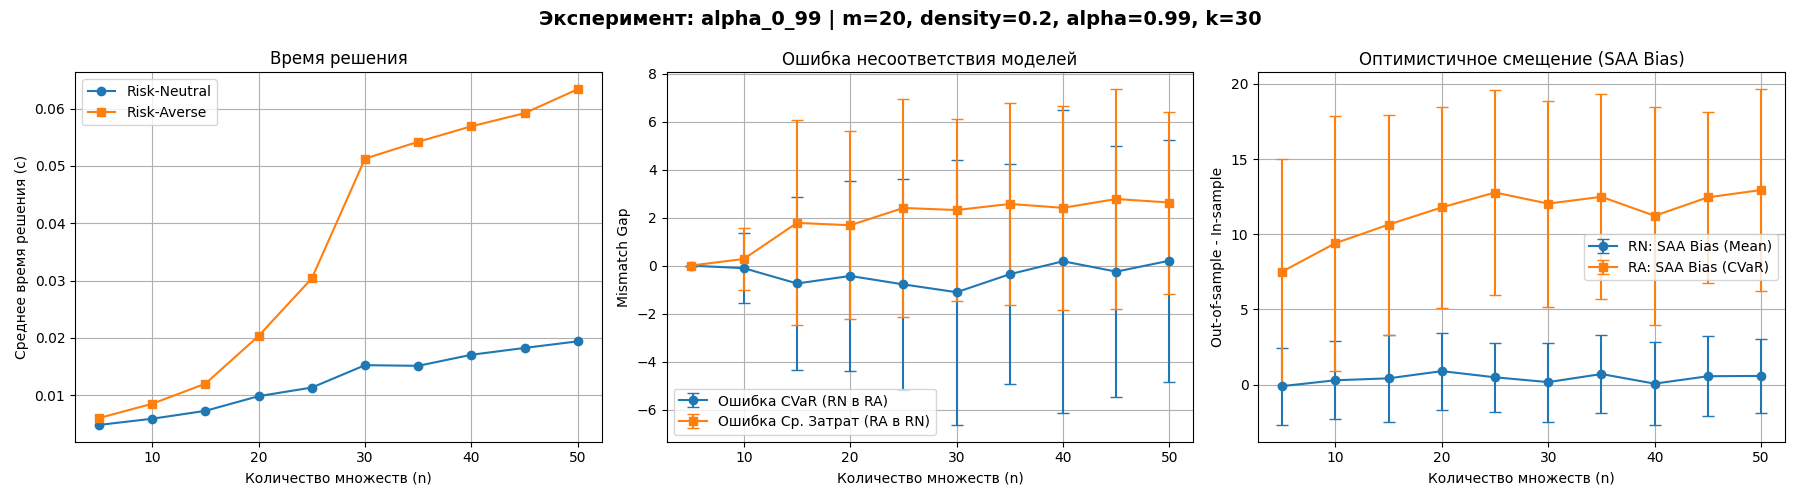
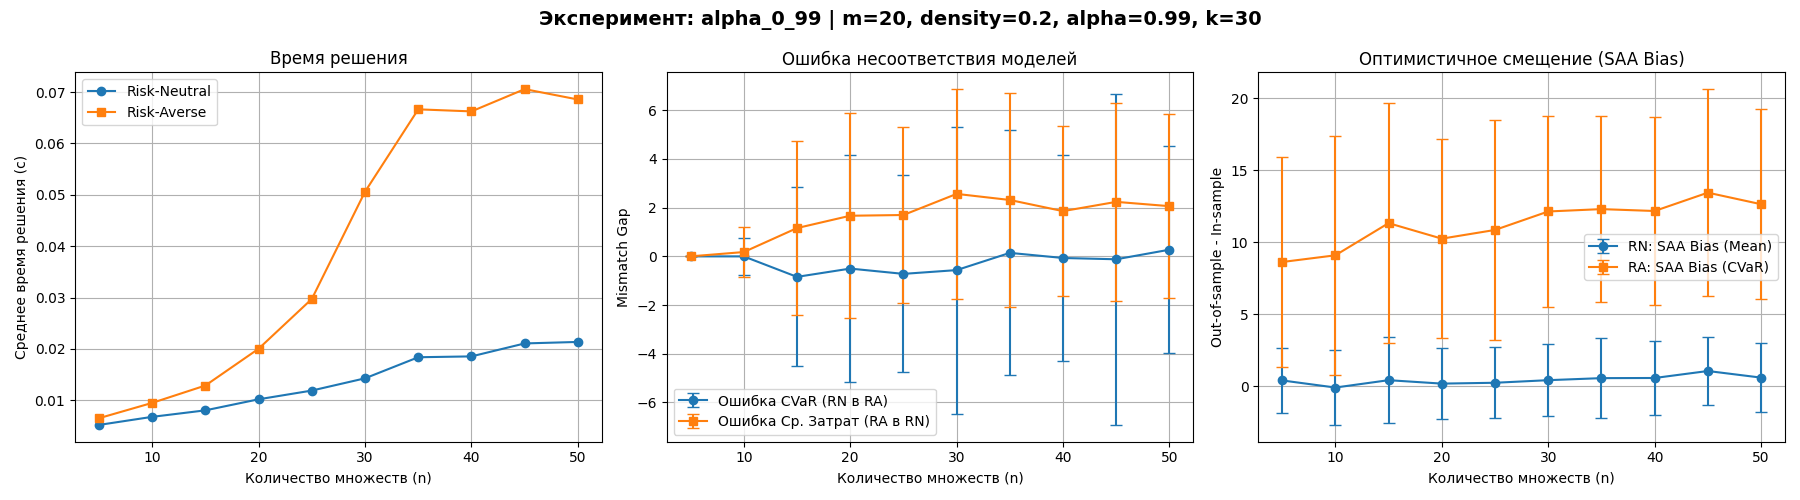
Fixes

diff --git a/experiments/stochastic_run.py b/experiments/stochastic_run.py
@@ -60,7 +60,7 @@ def draw_plots(exp_name: str, config: dict, results: dict):
 
     # выравниваем и сохраняем картинку
     plt.tight_layout()
-    plt.savefig(f"report/images/{exp_name}.png")
+    plt.savefig(f"report/stochastic_images/{exp_name}.png")
     plt.close()
 
 

diff --git a/report/tables/stochastic-table.md b/report/tables/stochastic-table.md
@@ -2,93 +2,103 @@
 
 | Эксперимент (Параметры) | n | Время RN (с) | Время RA (с) | Mismatch CVaR | Mismatch Mean | Bias RN | Bias RA |
 |---|---|---|---|---|---|---|---|
-| **base_case**<br>m=20, d=0.2, $\alpha$=0.9 | 5 | 0.0051 | 0.0062 | 0.0000 ± 0.00 | 0.0000 ± 0.00 | 0.0207 | 1.3152 |
-|  | 10 | 0.0062 | 0.0087 | -0.1004 ± 0.62 | 0.1888 ± 1.03 | -0.0934 | 0.6145 |
-|  | 15 | 0.0079 | 0.0134 | 0.1426 ± 1.32 | 0.4332 ± 1.48 | 0.5305 | 3.1931 |
-|  | 20 | 0.0102 | 0.0210 | 0.0605 ± 2.15 | 0.5692 ± 2.03 | 0.3464 | 2.0483 |
-|  | 25 | 0.0121 | 0.0332 | 0.1108 ± 2.59 | 1.1696 ± 2.41 | 0.4755 | 2.8674 |
-|  | 30 | 0.0140 | 0.0515 | -0.3210 ± 2.35 | 1.1171 ± 2.67 | 0.1681 | 2.8625 |
-|  | 35 | 0.0164 | 0.0594 | 0.1177 ± 2.69 | 1.3247 ± 3.00 | 0.6538 | 3.5114 |
-|  | 40 | 0.0186 | 0.0673 | -0.1411 ± 3.67 | 1.7848 ± 3.95 | 0.2057 | 2.4758 |
-|  | 45 | 0.0202 | 0.0673 | -0.5259 ± 4.18 | 2.2503 ± 4.53 | 0.4130 | 3.6102 |
-|  | 50 | 0.0212 | 0.0693 | 0.0340 ± 3.65 | 2.1774 ± 3.67 | 0.3945 | 3.7117 |
-| **m_10**<br>m=10, d=0.2, $\alpha$=0.9 | 5 | 0.0047 | 0.0062 | 0.0000 ± 0.00 | 0.0000 ± 0.00 | -0.0027 | 1.3368 |
-|  | 10 | 0.0058 | 0.0089 | 0.0318 ± 0.92 | 0.0804 ± 0.68 | 0.4482 | 1.4873 |
-|  | 15 | 0.0072 | 0.0133 | 0.3729 ± 2.06 | 0.4232 ± 1.39 | 0.4284 | 1.9367 |
-|  | 20 | 0.0082 | 0.0172 | 0.0164 ± 2.13 | 0.7691 ± 2.04 | 0.3645 | 1.8328 |
-|  | 25 | 0.0093 | 0.0231 | 0.0381 ± 1.91 | 0.6453 ± 1.62 | 0.0785 | 1.9096 |
-|  | 30 | 0.0102 | 0.0242 | 0.2024 ± 3.25 | 1.1676 ± 3.21 | 0.2525 | 2.2831 |
-|  | 35 | 0.0112 | 0.0257 | 0.0689 ± 2.47 | 1.0704 ± 2.29 | 0.6658 | 2.8743 |
-|  | 40 | 0.0125 | 0.0298 | 0.4822 ± 2.72 | 1.1097 ± 2.90 | 0.5397 | 1.9620 |
-|  | 45 | 0.0131 | 0.0302 | 0.4589 ± 3.67 | 1.4109 ± 3.00 | 0.1742 | 2.3064 |
-|  | 50 | 0.0139 | 0.0311 | 0.1986 ± 3.14 | 1.4565 ± 2.88 | 0.3549 | 2.8244 |
-| **m_30**<br>m=30, d=0.2, $\alpha$=0.9 | 5 | 0.0053 | 0.0069 | 0.0000 ± 0.00 | 0.0000 ± 0.00 | -0.2576 | 0.6943 |
-|  | 10 | 0.0066 | 0.0085 | -0.0992 ± 0.81 | 0.1775 ± 1.17 | 0.1400 | 2.5038 |
-|  | 15 | 0.0092 | 0.0143 | -0.0520 ± 1.00 | 0.3547 ± 1.24 | 0.5108 | 2.8730 |
-|  | 20 | 0.0120 | 0.0249 | -0.6859 ± 3.59 | 1.0015 ± 3.73 | -0.1444 | 1.7662 |
-|  | 25 | 0.0193 | 0.0575 | 0.0627 ± 2.31 | 0.9647 ± 2.44 | 0.5803 | 3.1321 |
-|  | 30 | 0.0255 | 0.0823 | -0.0814 ± 2.66 | 1.2747 ± 2.86 | 0.6111 | 4.0306 |
-|  | 35 | 0.0238 | 0.0946 | 0.0041 ± 2.80 | 1.5036 ± 2.94 | 0.4468 | 3.6734 |
-|  | 40 | 0.0283 | 0.1152 | -0.4631 ± 2.76 | 2.0386 ± 3.59 | 0.8691 | 4.4319 |
-|  | 45 | 0.0326 | 0.1260 | -0.2213 ± 3.90 | 1.7898 ± 3.98 | 0.5836 | 4.3144 |
-|  | 50 | 0.0378 | 0.1413 | -0.4738 ± 3.79 | 1.8418 ± 3.18 | 0.5901 | 4.9076 |
-| **density_0_1**<br>m=20, d=0.1, $\alpha$=0.9 | 5 | 0.0053 | 0.0068 | 0.0000 ± 0.00 | 0.0000 ± 0.00 | 0.2868 | 1.1104 |
+| **base_case**<br>m=20, d=0.2, $\alpha$=0.9 | 5 | 0.0054 | 0.0069 | 0.0000 ± 0.00 | 0.0000 ± 0.00 | 0.0207 | 1.3152 |
+|  | 10 | 0.0061 | 0.0087 | -0.1004 ± 0.62 | 0.1888 ± 1.03 | -0.0934 | 0.6145 |
+|  | 15 | 0.0081 | 0.0150 | 0.1426 ± 1.32 | 0.4332 ± 1.48 | 0.5305 | 3.1931 |
+|  | 20 | 0.0104 | 0.0224 | 0.0605 ± 2.15 | 0.5692 ± 2.03 | 0.3464 | 2.0483 |
+|  | 25 | 0.0123 | 0.0339 | 0.1108 ± 2.59 | 1.1696 ± 2.41 | 0.4755 | 2.8674 |
+|  | 30 | 0.0142 | 0.0504 | -0.3210 ± 2.35 | 1.1171 ± 2.67 | 0.1681 | 2.8625 |
+|  | 35 | 0.0160 | 0.0585 | 0.1177 ± 2.69 | 1.3247 ± 3.00 | 0.6538 | 3.5114 |
+|  | 40 | 0.0184 | 0.0654 | -0.1411 ± 3.67 | 1.7848 ± 3.95 | 0.2057 | 2.4758 |
+|  | 45 | 0.0202 | 0.0683 | -0.5259 ± 4.18 | 2.2503 ± 4.53 | 0.4130 | 3.6102 |
+|  | 50 | 0.0215 | 0.0712 | 0.0340 ± 3.65 | 2.1774 ± 3.67 | 0.3945 | 3.7117 |
+| **m_10**<br>m=10, d=0.2, $\alpha$=0.9 | 5 | 0.0050 | 0.0066 | 0.0000 ± 0.00 | 0.0000 ± 0.00 | -0.0027 | 1.3368 |
+|  | 10 | 0.0061 | 0.0091 | 0.0318 ± 0.92 | 0.0804 ± 0.68 | 0.4482 | 1.4873 |
+|  | 15 | 0.0072 | 0.0131 | 0.3729 ± 2.06 | 0.4232 ± 1.39 | 0.4284 | 1.9367 |
+|  | 20 | 0.0084 | 0.0186 | 0.0164 ± 2.13 | 0.7691 ± 2.04 | 0.3645 | 1.8328 |
+|  | 25 | 0.0098 | 0.0243 | 0.0381 ± 1.91 | 0.6453 ± 1.62 | 0.0785 | 1.9096 |
+|  | 30 | 0.0103 | 0.0247 | 0.2024 ± 3.25 | 1.1676 ± 3.21 | 0.2525 | 2.2831 |
+|  | 35 | 0.0118 | 0.0283 | 0.0689 ± 2.47 | 1.0704 ± 2.29 | 0.6658 | 2.8743 |
+|  | 40 | 0.0134 | 0.0309 | 0.4822 ± 2.72 | 1.1097 ± 2.90 | 0.5397 | 1.9620 |
+|  | 45 | 0.0146 | 0.0329 | 0.4589 ± 3.67 | 1.4109 ± 3.00 | 0.1742 | 2.3064 |
+|  | 50 | 0.0141 | 0.0320 | 0.1986 ± 3.14 | 1.4565 ± 2.88 | 0.3549 | 2.8244 |
+| **m_30**<br>m=30, d=0.2, $\alpha$=0.9 | 5 | 0.0055 | 0.0071 | 0.0000 ± 0.00 | 0.0000 ± 0.00 | -0.2576 | 0.6943 |
+|  | 10 | 0.0071 | 0.0091 | -0.0992 ± 0.81 | 0.1775 ± 1.17 | 0.1400 | 2.5038 |
+|  | 15 | 0.0089 | 0.0138 | -0.0520 ± 1.00 | 0.3547 ± 1.24 | 0.5108 | 2.8730 |
+|  | 20 | 0.0114 | 0.0234 | -0.6859 ± 3.59 | 1.0015 ± 3.73 | -0.1444 | 1.7662 |
+|  | 25 | 0.0191 | 0.0570 | 0.0627 ± 2.31 | 0.9647 ± 2.44 | 0.5803 | 3.1321 |
+|  | 30 | 0.0247 | 0.0817 | -0.0814 ± 2.66 | 1.2747 ± 2.86 | 0.6111 | 4.0306 |
+|  | 35 | 0.0246 | 0.0986 | 0.0041 ± 2.80 | 1.5036 ± 2.94 | 0.4468 | 3.6734 |
+|  | 40 | 0.0299 | 0.1224 | -0.4631 ± 2.76 | 2.0386 ± 3.59 | 0.8691 | 4.4319 |
+|  | 45 | 0.0344 | 0.1357 | -0.2213 ± 3.90 | 1.7898 ± 3.98 | 0.5836 | 4.3144 |
+|  | 50 | 0.0394 | 0.1501 | -0.4738 ± 3.79 | 1.8418 ± 3.18 | 0.5901 | 4.9076 |
+| **density_0_1**<br>m=20, d=0.1, $\alpha$=0.9 | 5 | 0.0053 | 0.0071 | 0.0000 ± 0.00 | 0.0000 ± 0.00 | 0.2868 | 1.1104 |
 |  | 10 | 0.0062 | 0.0081 | 0.0000 ± 0.00 | 0.0000 ± 0.00 | 0.3344 | 3.2286 |
-|  | 15 | 0.0074 | 0.0105 | -0.3104 ± 1.45 | 0.2903 ± 1.29 | 0.1960 | 2.8048 |
-|  | 20 | 0.0080 | 0.0119 | -0.2093 ± 1.70 | 0.4286 ± 1.71 | 0.4078 | 2.0023 |
-|  | 25 | 0.0090 | 0.0151 | -0.6588 ± 2.10 | 0.8715 ± 2.25 | -0.2189 | 2.5129 |
-|  | 30 | 0.0101 | 0.0171 | -0.4609 ± 2.36 | 0.8233 ± 2.30 | 0.5500 | 3.2383 |
-|  | 35 | 0.0114 | 0.0217 | -0.8025 ± 3.11 | 1.3529 ± 2.91 | 0.1828 | 2.6923 |
-|  | 40 | 0.0128 | 0.0266 | -0.5831 ± 2.15 | 1.2247 ± 2.29 | 0.5230 | 4.0077 |
-|  | 45 | 0.0139 | 0.0303 | -0.5058 ± 2.91 | 1.4233 ± 2.88 | 0.6890 | 4.2962 |
-|  | 50 | 0.0151 | 0.0318 | -0.6510 ± 2.72 | 1.9099 ± 3.02 | 0.3386 | 4.2638 |
-| **density_0_7**<br>m=20, d=0.7, $\alpha$=0.9 | 5 | 0.0057 | 0.0091 | 0.0142 ± 0.85 | 0.4193 ± 1.41 | 0.3898 | 1.4462 |
-|  | 10 | 0.0081 | 0.0195 | 0.4715 ± 2.29 | 1.0018 ± 2.47 | -0.0819 | 0.7831 |
-|  | 15 | 0.0094 | 0.0312 | 0.7119 ± 3.45 | 1.0326 ± 2.33 | 0.4676 | 1.4478 |
-|  | 20 | 0.0111 | 0.0361 | 0.6248 ± 2.33 | 1.1607 ± 2.93 | 0.2266 | 1.2107 |
-|  | 25 | 0.0126 | 0.0462 | 0.8161 ± 2.99 | 1.5180 ± 2.87 | 0.4343 | 1.8908 |
-|  | 30 | 0.0141 | 0.0502 | 1.8826 ± 3.42 | 1.3625 ± 2.64 | 0.6439 | 1.9144 |
-|  | 35 | 0.0154 | 0.0453 | 2.0257 ± 4.46 | 1.0486 ± 2.69 | 0.6423 | 2.1641 |
-|  | 40 | 0.0167 | 0.0431 | 1.8447 ± 3.91 | 1.7603 ± 2.79 | 0.7016 | 1.9138 |
-|  | 45 | 0.0177 | 0.0407 | 2.2414 ± 3.71 | 1.6870 ± 2.67 | 0.5926 | 1.4566 |
-|  | 50 | 0.0189 | 0.0413 | 2.8262 ± 4.11 | 1.8496 ± 2.67 | 0.6407 | 1.3211 |
-| **alpha_0_95**<br>m=20, d=0.2, $\alpha$=0.95 | 5 | 0.0048 | 0.0063 | 0.0000 ± 0.00 | 0.0000 ± 0.00 | -0.2329 | 1.4647 |
-|  | 10 | 0.0059 | 0.0082 | -0.0636 ± 1.14 | 0.1439 ± 1.22 | 0.0583 | 3.2126 |
-|  | 15 | 0.0074 | 0.0128 | -0.3167 ± 1.94 | 0.7405 ± 2.39 | 0.4678 | 3.8716 |
-|  | 20 | 0.0092 | 0.0185 | -1.1499 ± 3.51 | 1.7712 ± 4.02 | 0.0843 | 4.6589 |
-|  | 25 | 0.0111 | 0.0297 | -0.6741 ± 2.82 | 1.5500 ± 3.20 | 0.6356 | 4.5630 |
-|  | 30 | 0.0137 | 0.0396 | -0.4992 ± 3.99 | 2.2947 ± 3.71 | 0.7682 | 5.3296 |
-|  | 35 | 0.0152 | 0.0571 | -0.2451 ± 4.19 | 2.3268 ± 3.87 | 0.5822 | 5.1724 |
-|  | 40 | 0.0169 | 0.0558 | -0.0239 ± 3.42 | 1.4287 ± 3.43 | 0.6124 | 5.7073 |
-|  | 45 | 0.0171 | 0.0593 | -0.5659 ± 3.90 | 1.6567 ± 3.29 | 0.8945 | 6.2993 |
-|  | 50 | 0.0205 | 0.0673 | 0.3644 ± 4.10 | 2.4720 ± 3.83 | 0.8416 | 4.9995 |
-| **alpha_0_99**<br>m=20, d=0.2, $\alpha$=0.99 | 5 | 0.0048 | 0.0060 | 0.0000 ± 0.00 | 0.0000 ± 0.00 | -0.1014 | 7.5118 |
-|  | 10 | 0.0059 | 0.0085 | -0.1050 ± 1.45 | 0.2778 ± 1.30 | 0.2881 | 9.4022 |
-|  | 15 | 0.0073 | 0.0120 | -0.7433 ± 3.61 | 1.7795 ± 4.27 | 0.4172 | 10.6377 |
-|  | 20 | 0.0099 | 0.0204 | -0.4304 ± 3.96 | 1.6808 ± 3.92 | 0.8954 | 11.7835 |
-|  | 25 | 0.0114 | 0.0304 | -0.7819 ± 4.40 | 2.4014 ± 4.55 | 0.4859 | 12.7723 |
-|  | 30 | 0.0153 | 0.0513 | -1.1074 ± 5.53 | 2.3153 ± 3.79 | 0.1651 | 12.0336 |
-|  | 35 | 0.0151 | 0.0542 | -0.3566 ± 4.58 | 2.5693 ± 4.21 | 0.7033 | 12.4868 |
-|  | 40 | 0.0171 | 0.0569 | 0.1822 ± 6.31 | 2.4061 ± 4.25 | 0.0636 | 11.2228 |
-|  | 45 | 0.0183 | 0.0592 | -0.2501 ± 5.24 | 2.7748 ± 4.58 | 0.5568 | 12.4502 |
-|  | 50 | 0.0194 | 0.0634 | 0.2064 ± 5.05 | 2.6267 ± 3.79 | 0.5767 | 12.9364 |
-| **hardcore_risk**<br>m=30, d=0.1, $\alpha$=0.99 | 5 | 0.0050 | 0.0066 | 0.0000 ± 0.00 | 0.0000 ± 0.00 | 0.1848 | 9.2712 |
-|  | 10 | 0.0063 | 0.0076 | 0.0000 ± 0.00 | 0.0000 ± 0.00 | 0.0542 | 10.6846 |
-|  | 15 | 0.0075 | 0.0095 | -0.1291 ± 1.45 | 0.2240 ± 1.71 | 0.5718 | 12.7960 |
-|  | 20 | 0.0088 | 0.0125 | -0.6215 ± 2.63 | 0.5774 ± 1.95 | 0.4374 | 14.7640 |
-|  | 25 | 0.0101 | 0.0164 | -1.1227 ± 3.48 | 1.3529 ± 2.89 | -0.3128 | 15.8675 |
-|  | 30 | 0.0117 | 0.0184 | -2.5650 ± 6.07 | 2.4589 ± 5.01 | 0.7154 | 17.1884 |
-|  | 35 | 0.0138 | 0.0239 | -1.0148 ± 4.19 | 1.5978 ± 4.00 | 0.0613 | 15.6548 |
-|  | 40 | 0.0162 | 0.0408 | -1.8339 ± 5.91 | 2.9058 ± 4.94 | 0.5403 | 18.4691 |
-|  | 45 | 0.0180 | 0.0407 | -1.7392 ± 5.68 | 2.9425 ± 4.39 | 0.6764 | 18.2487 |
-|  | 50 | 0.0195 | 0.0476 | -2.2513 ± 5.34 | 3.7571 ± 5.30 | 0.7911 | 20.3902 |
-| **trivial_case**<br>m=10, d=0.7, $\alpha$=0.9 | 5 | 0.0056 | 0.0097 | 0.2592 ± 1.54 | 0.4348 ± 1.47 | 0.3136 | 1.1474 |
-|  | 10 | 0.0068 | 0.0180 | 0.8994 ± 3.26 | 1.1137 ± 2.57 | 0.3298 | 0.8700 |
-|  | 15 | 0.0078 | 0.0236 | 0.9097 ± 2.82 | 0.9839 ± 2.37 | 0.1270 | 1.3604 |
-|  | 20 | 0.0090 | 0.0301 | 1.1708 ± 2.97 | 0.8385 ± 1.82 | 0.3452 | 1.4154 |
-|  | 25 | 0.0102 | 0.0349 | 2.0826 ± 4.09 | 1.4870 ± 2.58 | 0.5976 | 1.4916 |
-|  | 30 | 0.0106 | 0.0284 | 1.9730 ± 4.18 | 1.4530 ± 2.67 | 0.3777 | 1.1953 |
-|  | 35 | 0.0115 | 0.0261 | 2.0053 ± 3.61 | 0.7197 ± 1.89 | 0.4372 | 1.1931 |
-|  | 40 | 0.0126 | 0.0277 | 2.0273 ± 3.33 | 1.1757 ± 2.16 | 0.6184 | 1.3851 |
-|  | 45 | 0.0140 | 0.0291 | 1.6611 ± 3.16 | 1.1157 ± 2.16 | 0.3924 | 1.3895 |
-|  | 50 | 0.0145 | 0.0303 | 2.2193 ± 3.88 | 1.3890 ± 2.22 | 0.5961 | 1.4325 |
+|  | 15 | 0.0075 | 0.0103 | -0.3104 ± 1.45 | 0.2903 ± 1.29 | 0.1960 | 2.8048 |
+|  | 20 | 0.0087 | 0.0129 | -0.2093 ± 1.70 | 0.4286 ± 1.71 | 0.4078 | 2.0023 |
+|  | 25 | 0.0096 | 0.0156 | -0.6588 ± 2.10 | 0.8715 ± 2.25 | -0.2189 | 2.5129 |
+|  | 30 | 0.0110 | 0.0190 | -0.4609 ± 2.36 | 0.8233 ± 2.30 | 0.5500 | 3.2383 |
+|  | 35 | 0.0123 | 0.0226 | -0.8025 ± 3.11 | 1.3529 ± 2.91 | 0.1828 | 2.6923 |
+|  | 40 | 0.0135 | 0.0290 | -0.5831 ± 2.15 | 1.2247 ± 2.29 | 0.5230 | 4.0077 |
+|  | 45 | 0.0149 | 0.0320 | -0.5058 ± 2.91 | 1.4233 ± 2.88 | 0.6890 | 4.2962 |
+|  | 50 | 0.0160 | 0.0348 | -0.6510 ± 2.72 | 1.9099 ± 3.02 | 0.3386 | 4.2638 |
+| **density_0_7**<br>m=20, d=0.7, $\alpha$=0.9 | 5 | 0.0065 | 0.0103 | 0.0142 ± 0.85 | 0.4193 ± 1.41 | 0.3898 | 1.4462 |
+|  | 10 | 0.0084 | 0.0216 | 0.4715 ± 2.29 | 1.0018 ± 2.47 | -0.0819 | 0.7831 |
+|  | 15 | 0.0103 | 0.0350 | 0.7119 ± 3.45 | 1.0326 ± 2.33 | 0.4676 | 1.4478 |
+|  | 20 | 0.0114 | 0.0371 | 0.6248 ± 2.33 | 1.1607 ± 2.93 | 0.2266 | 1.2107 |
+|  | 25 | 0.0131 | 0.0494 | 0.8161 ± 2.99 | 1.5180 ± 2.87 | 0.4343 | 1.8908 |
+|  | 30 | 0.0150 | 0.0514 | 1.8826 ± 3.42 | 1.3625 ± 2.64 | 0.6439 | 1.9144 |
+|  | 35 | 0.0158 | 0.0462 | 2.0257 ± 4.46 | 1.0486 ± 2.69 | 0.6423 | 2.1641 |
+|  | 40 | 0.0175 | 0.0448 | 1.8447 ± 3.91 | 1.7603 ± 2.79 | 0.7016 | 1.9138 |
+|  | 45 | 0.0183 | 0.0426 | 2.2414 ± 3.71 | 1.6870 ± 2.67 | 0.5926 | 1.4566 |
+|  | 50 | 0.0194 | 0.0424 | 2.8262 ± 4.11 | 1.8496 ± 2.67 | 0.6407 | 1.3211 |
+| **alpha_0_6**<br>m=20, d=0.2, $\alpha$=0.6 | 5 | 0.0051 | 0.0067 | 0.0000 ± 0.00 | 0.0000 ± 0.00 | -0.2329 | -0.1007 |
+|  | 10 | 0.0065 | 0.0084 | 0.0293 ± 0.28 | 0.0055 ± 0.29 | 0.0583 | 0.7500 |
+|  | 15 | 0.0076 | 0.0127 | 0.0176 ± 0.61 | 0.0950 ± 0.68 | 0.4678 | 0.9013 |
+|  | 20 | 0.0098 | 0.0189 | -0.2055 ± 1.44 | 0.3509 ± 1.16 | 0.0843 | 0.7395 |
+|  | 25 | 0.0120 | 0.0319 | -0.2247 ± 1.13 | 0.4078 ± 1.31 | 0.6356 | 1.2517 |
+|  | 30 | 0.0150 | 0.0418 | 0.0088 ± 1.47 | 0.3968 ± 1.25 | 0.7682 | 1.4240 |
+|  | 35 | 0.0169 | 0.0491 | 0.0021 ± 1.40 | 0.3960 ± 1.58 | 0.5822 | 1.1487 |
+|  | 40 | 0.0180 | 0.0555 | 0.0346 ± 1.24 | 0.2922 ± 1.26 | 0.6124 | 1.0285 |
+|  | 45 | 0.0183 | 0.0512 | 0.0551 ± 1.61 | 0.3209 ± 1.47 | 0.8945 | 1.5659 |
+|  | 50 | 0.0233 | 0.0610 | -0.0382 ± 1.43 | 0.5014 ± 1.77 | 0.8416 | 1.5275 |
+| **alpha_0_95**<br>m=20, d=0.2, $\alpha$=0.95 | 5 | 0.0053 | 0.0069 | 0.0000 ± 0.00 | 0.0000 ± 0.00 | -0.1014 | 1.8423 |
+|  | 10 | 0.0068 | 0.0096 | -0.0404 ± 1.26 | 0.1482 ± 0.95 | 0.2881 | 2.9908 |
+|  | 15 | 0.0082 | 0.0143 | -0.5699 ± 2.16 | 1.3022 ± 3.14 | 0.4172 | 3.4298 |
+|  | 20 | 0.0107 | 0.0227 | -0.2063 ± 3.12 | 1.1953 ± 3.20 | 0.8954 | 4.7254 |
+|  | 25 | 0.0123 | 0.0352 | -0.7534 ± 3.51 | 1.9014 ± 3.82 | 0.4859 | 5.6133 |
+|  | 30 | 0.0152 | 0.0499 | -0.5420 ± 3.89 | 1.6625 ± 2.78 | 0.1651 | 4.7310 |
+|  | 35 | 0.0158 | 0.0593 | -0.2561 ± 3.84 | 2.0449 ± 3.40 | 0.7033 | 5.7035 |
+|  | 40 | 0.0182 | 0.0581 | -0.3681 ± 5.28 | 2.0978 ± 3.87 | 0.0636 | 4.9745 |
+|  | 45 | 0.0196 | 0.0627 | -0.5655 ± 4.18 | 2.4600 ± 4.17 | 0.5568 | 6.0016 |
+|  | 50 | 0.0217 | 0.0651 | -0.0316 ± 3.43 | 2.1551 ± 3.30 | 0.5767 | 6.1826 |
+| **alpha_0_99**<br>m=20, d=0.2, $\alpha$=0.99 | 5 | 0.0052 | 0.0065 | 0.0000 ± 0.00 | 0.0000 ± 0.00 | 0.3976 | 8.6190 |
+|  | 10 | 0.0068 | 0.0095 | -0.0013 ± 0.75 | 0.1769 ± 1.04 | -0.0958 | 9.0843 |
+|  | 15 | 0.0081 | 0.0129 | -0.8424 ± 3.67 | 1.1614 ± 3.57 | 0.4151 | 11.3174 |
+|  | 20 | 0.0102 | 0.0201 | -0.5023 ± 4.68 | 1.6684 ± 4.20 | 0.1774 | 10.2403 |
+|  | 25 | 0.0119 | 0.0297 | -0.7194 ± 4.04 | 1.6986 ± 3.61 | 0.2360 | 10.8447 |
+|  | 30 | 0.0143 | 0.0506 | -0.5646 ± 5.90 | 2.5657 ± 4.30 | 0.4156 | 12.1276 |
+|  | 35 | 0.0184 | 0.0666 | 0.1431 ± 5.03 | 2.3155 ± 4.39 | 0.5575 | 12.2914 |
+|  | 40 | 0.0186 | 0.0662 | -0.0670 ± 4.23 | 1.8574 ± 3.50 | 0.5674 | 12.1605 |
+|  | 45 | 0.0211 | 0.0706 | -0.1199 ± 6.80 | 2.2383 ± 4.06 | 1.0522 | 13.4342 |
+|  | 50 | 0.0214 | 0.0686 | 0.2741 ± 4.26 | 2.0614 ± 3.79 | 0.5932 | 12.6314 |
+| **hardcore_risk**<br>m=30, d=0.1, $\alpha$=0.99 | 5 | 0.0058 | 0.0071 | 0.0000 ± 0.00 | 0.0000 ± 0.00 | -0.1103 | 8.1919 |
+|  | 10 | 0.0065 | 0.0081 | -0.1090 ± 1.08 | 0.0940 ± 0.94 | -0.0985 | 10.5518 |
+|  | 15 | 0.0079 | 0.0099 | -0.1840 ± 1.73 | 0.3666 ± 1.96 | 0.3479 | 12.3114 |
+|  | 20 | 0.0097 | 0.0139 | -0.2717 ± 2.72 | 0.5245 ± 2.09 | 0.0129 | 12.4712 |
+|  | 25 | 0.0108 | 0.0160 | -0.7672 ± 3.41 | 1.4975 ± 3.62 | 0.3193 | 14.4710 |
+|  | 30 | 0.0127 | 0.0217 | -1.2497 ± 5.03 | 2.3992 ± 4.11 | -0.5064 | 15.9128 |
+|  | 35 | 0.0147 | 0.0274 | -1.0473 ± 4.77 | 2.6844 ± 4.78 | 0.0104 | 16.7045 |
+|  | 40 | 0.0170 | 0.0333 | -1.1941 ± 5.43 | 2.5915 ± 4.21 | 0.7725 | 18.2656 |
+|  | 45 | 0.0198 | 0.0439 | -1.1392 ± 4.83 | 2.3467 ± 4.05 | 0.9235 | 17.4585 |
+|  | 50 | 0.0212 | 0.0529 | -1.2760 ± 5.03 | 3.2364 ± 4.79 | 0.7816 | 17.8795 |
+| **trivial_case**<br>m=10, d=0.7, $\alpha$=0.9 | 5 | 0.0056 | 0.0104 | 0.2510 ± 1.30 | 0.4526 ± 1.85 | 0.0269 | 0.8230 |
+|  | 10 | 0.0070 | 0.0191 | 0.5068 ± 2.41 | 0.9625 ± 2.39 | 0.1623 | 1.2671 |
+|  | 15 | 0.0081 | 0.0276 | 1.3483 ± 3.29 | 1.0923 ± 3.01 | 0.3707 | 1.1824 |
+|  | 20 | 0.0093 | 0.0293 | 1.3498 ± 3.60 | 1.4086 ± 3.09 | 0.5349 | 1.3764 |
+|  | 25 | 0.0109 | 0.0381 | 1.7205 ± 3.42 | 1.5882 ± 2.77 | 0.4467 | 1.1872 |
+|  | 30 | 0.0116 | 0.0300 | 2.0649 ± 4.10 | 2.1237 ± 3.12 | 0.4273 | 1.6388 |
+|  | 35 | 0.0135 | 0.0314 | 1.4033 ± 2.72 | 1.0020 ± 1.99 | 0.4965 | 1.2448 |
+|  | 40 | 0.0136 | 0.0289 | 3.0001 ± 3.93 | 1.1278 ± 2.17 | 0.5618 | 1.2458 |
+|  | 45 | 0.0148 | 0.0302 | 2.1921 ± 4.16 | 0.6418 ± 1.66 | 0.6891 | 1.2757 |
+|  | 50 | 0.0158 | 0.0327 | 2.3923 ± 3.57 | 1.4940 ± 2.31 | 0.3187 | 1.2634 |
